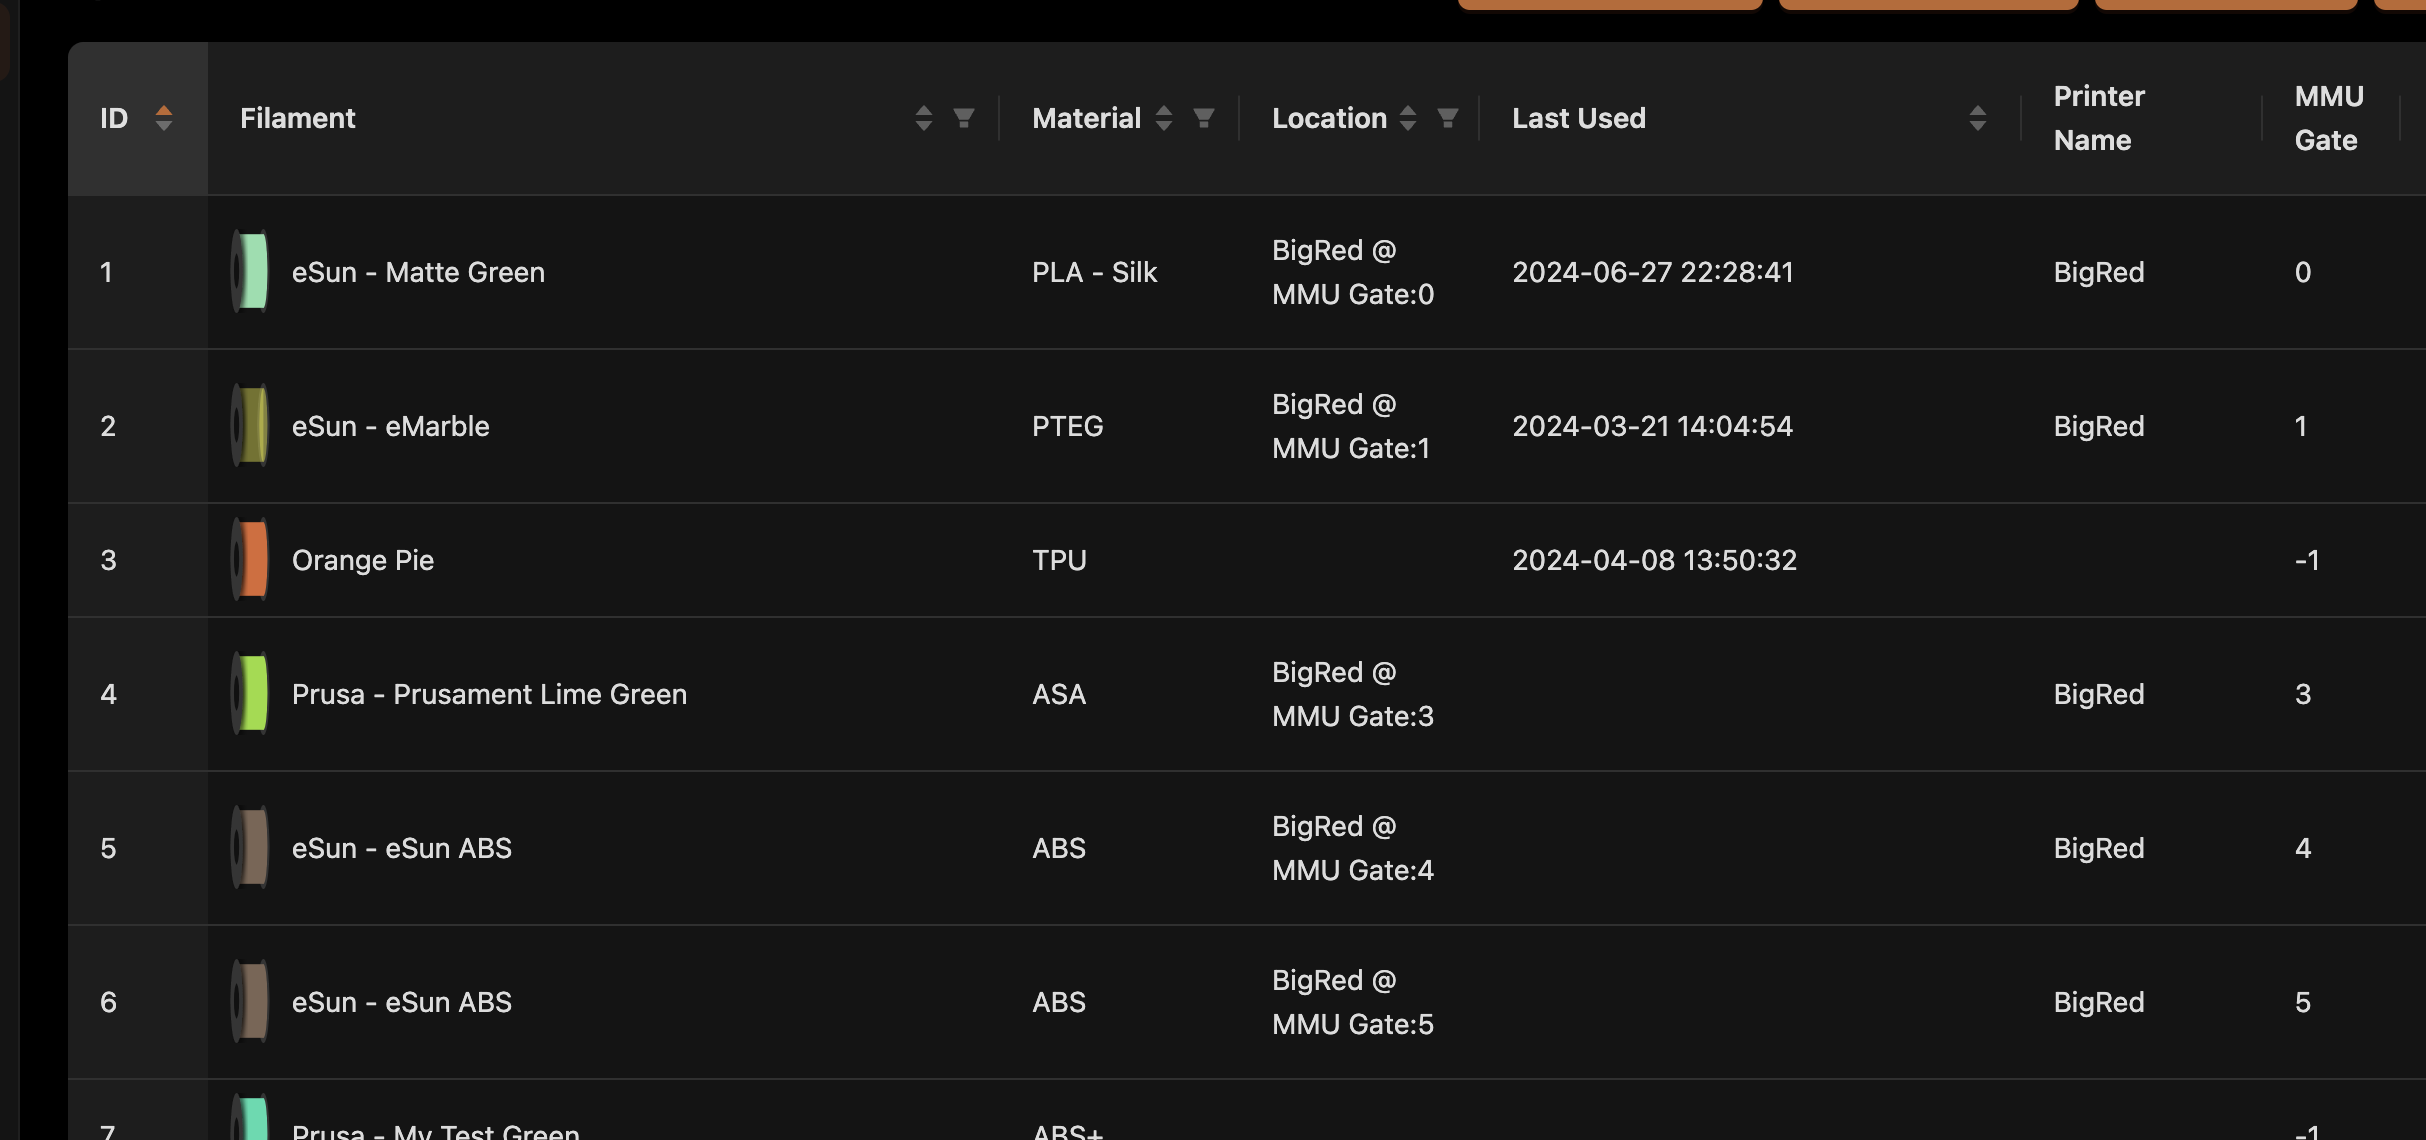
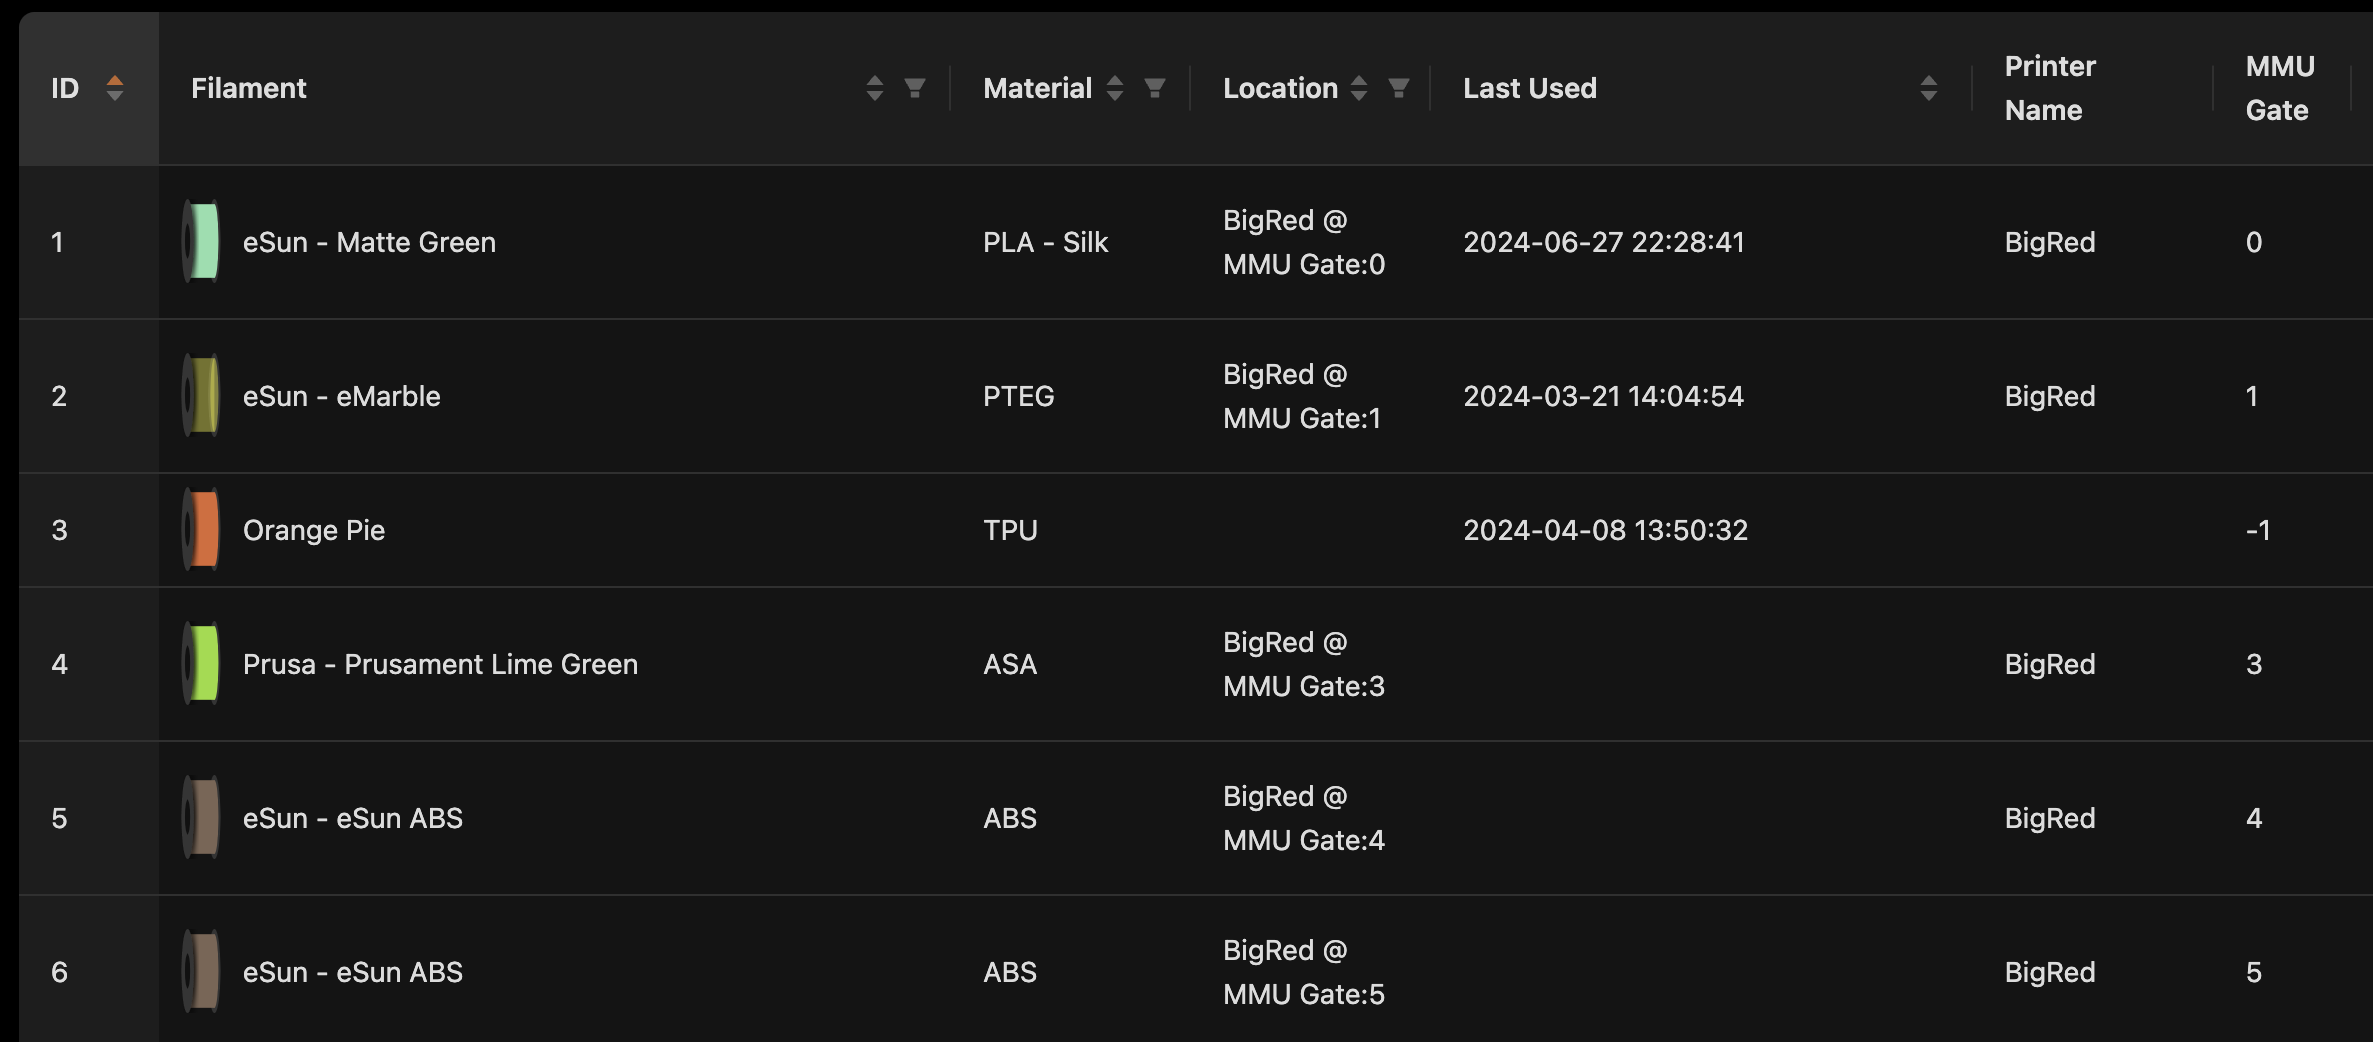
update

diff --git a/Spoolman-Support.md b/Spoolman-Support.md
@@ -9,7 +9,7 @@
   - [Pull (remote gate map)](#mode-pull)
 - [Gate Map and Spool Id](#---gate-map-and-spool-id)
   - [Activation Spool Id on toolchange](#activating-spoolid-on-toolchange)
-- [Auto-setting with RFID/QR code reader](#---auto-setting-with-rfid-qr-reader-code-reader)
+- [Auto-setting with RFID/QR code reader](#---auto-setting-with-rfidqr-code-reader)
 - [MMU\_SPOOLMAN Command](#---mmu_spoolman-command)
 
 Spoolman has become a popular way to manage a large collection of print spools. It is a database that you host somewhere (commonly on same rpi as your printer) that can be accessed through a web UI and web based remote procedure calls. Other than providing spool management it does two additional things:
@@ -276,27 +276,29 @@ If you use my enhanced [KlipperScreen Happy Hare Edition](https://github.com/mog
 
 ## ![#f03c15](resources/f03c15.png) ![#c5f015](resources/c5f015.png) ![#1589F0](resources/1589F0.png) Auto-setting with RFID/QR code reader
 
-So you have fitted all you spools with a fancy RIFD tags and built a nifty RFID onto your printer or MMU, perhaps are already using [nfc2klipper](https://github.com/bofh69/nfc2klipper) to be able to read that info into klipper. How do you automatically use that with Happy Hare?  Here is how...
+So you have fitted all you spools with a fancy RIFD tags and built a nifty RFID onto your printer or MMU or perhaps printed neat QR code labels from Spoolman?
 
-Because it isn't practical to build a RFID into every gate, the workflow supported by Happy Hare is this:
+Maybe you are already using [nfc2klipper](https://github.com/bofh69/nfc2klipper) to be able to read the rfid info into klipper. How do you automatically use that with Happy Hare?  Here is how...
+
+Because it isn't practical to build a RFID/QR code reader into every gate, the workflow supported by Happy Hare is this:
 - Offer up spool to reader
-- Read the spool\_id you have programmed onto the RFID tag
+- Read the spool\_id you have programmed onto the RFID tag / QR code
 - In this reader macro, call: `MMU_GATE_MAP NEXT_SPOOLID=..` with the read spool\_id
   - Insert filament into gate and run MMU_PRELOAD` to load and park the filament, or
-  - If you have pre-gate sensors then simply insert the filament into the back of the gate (this can even be done in print although obviously the filament cannot be preloaded in that case
+  - If you have pre-gate sensors then **simply insert the filament into the back of the gate** (this can even be done in print although obviously the filament cannot be preloaded in that case
 
-The gate map entry for this gate will automatically be updated with the spool_id and the rest of the gate map parameters (material/color/temp) will be retrieved from spoolman and, if configured, LEDs updated. The length of time that "NEXT_SPOOLID" remains valid is configured in `mmu_parameters.cfg`:
+The gate map entry for this gate will automatically be updated with the spool_id and the rest of the gate map parameters (material/color/temp) will be retrieved from spoolman. If configured, LEDs and Mainsail interface will be updated. The length of time that "NEXT_SPOOLID" remains valid is configured in `mmu_parameters.cfg`:
 ```yml
-pending_spool_id_timeout: 20            # Seconds after which this pending spool_id (set with rfid) is voided
+pending_spool_id_timeout: 20            # Seconds after which this pending spool_id (set with rfid/qr code) is voided
 ```
 
 > [!TIP]
-> If the `pending_spool_id_timeout` is exceed the spool_id will be forgotten and the RFID would need to be read again. Set this to a little longer than the time it takes you to load a spool into your MMU but not too long that it never expires
+> If the `pending_spool_id_timeout` is exceeded the spool_id will be forgotten and the RFID / QR code would need to be read again. Set this to a little longer than the time it takes you to load a spool into your MMU but not too long that it never expires.
 
 <br>
 
 > [!NOTE]
-> In the future Happy Hare may include direct RFID reader support but at present you need to program the calling of `MMU_GATE_MAP NEXT_SPOOLID=..`
+> In the future if MMU's build in readers Happy Hare may include direct support but at present you need to program the calling of `MMU_GATE_MAP NEXT_SPOOLID=..`
 
 <br>
 
